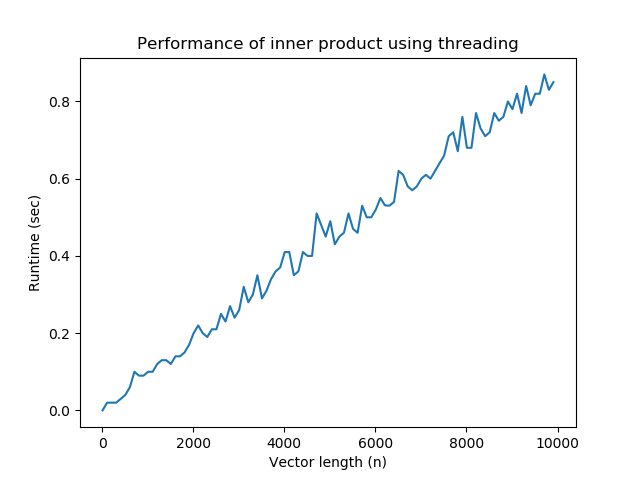
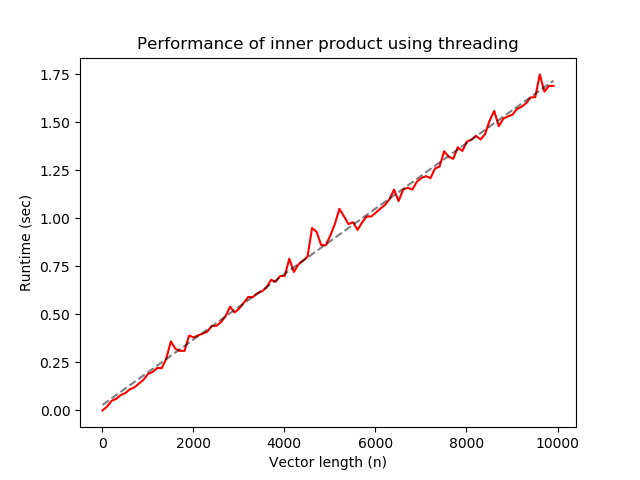
add new threading graph, comments

diff --git a/ThreadInner.py b/ThreadInner.py
@@ -11,6 +11,14 @@ import threading
 
 
 def inner_product_parallel(x, y):
+    '''
+    Compute the inner products of two vectors using parallel threads.
+
+    :param x: The first vector
+    :param y: The second vector
+    :return: Inner product of x and y
+    '''
+
     xy_products = []
 
     threads = []
@@ -26,10 +34,25 @@ def inner_product_parallel(x, y):
 
 
 def inner_product(x, y):
+    '''
+        A simple sequential function to compute the inner products of two vectors.
+
+        :param x: The first vector
+        :param y: The second vector
+        :return: Inner product of x and y
+    '''
+
     return sum([x_i * y_i for x_i, y_i in zip(x, y)])
 
 
 def parse_vector_file(filename):
+    '''
+    A function for parsing vectors from text data in .txt file.
+
+    :param filename: The path of the vector file
+    :return: The parsed vectors x and y
+    '''
+
     if not os.path.exists(filename):
         raise Exception('Vector file not found')
 

diff --git a/experiments.py b/experiments.py
@@ -1,6 +1,7 @@
 import random
 import time
 
+import numpy as np
 import matplotlib.pyplot as plt
 
 from ThreadInner import inner_product_parallel
@@ -26,8 +27,11 @@ if __name__ == '__main__':
 
         print(str(n) + ': ', run_time)
 
+    fit = np.polyfit(lengths, times, deg=1)
+
     plt.title('Performance of inner product using threading')
     plt.xlabel('Vector length (n)')
     plt.ylabel('Runtime (sec)')
-    plt.plot(lengths, times)
+    plt.plot(lengths, times, color='red')
+    plt.plot(lengths, fit[0] * np.asarray(lengths, np.float64) + fit[1], color='black', linestyle='dashed', alpha=0.5)
     plt.show()
